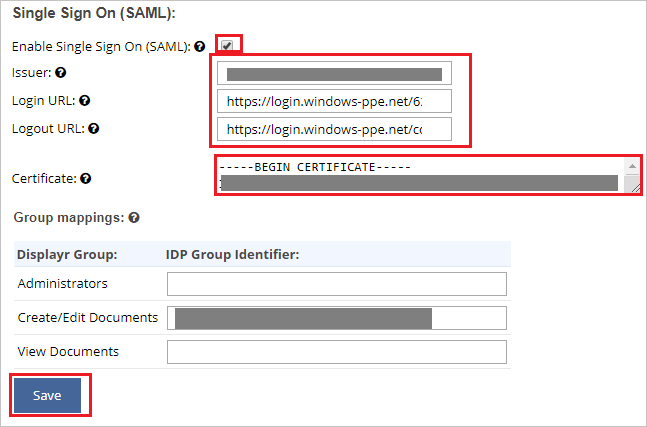
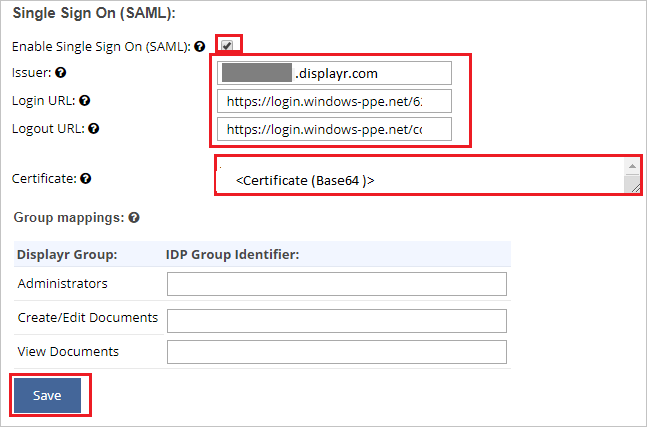
checking in inline tutorials

Changed region(s): [[0.2473, 0.7002, 0.7728, 0.7916], [0.34, 0.3653, 0.9583, 0.4567], [0.34, 0.1218, 0.6801, 0.2131]]

diff --git a/articles/en-us/displayr/sso_configure.md b/articles/en-us/displayr/sso_configure.md
@@ -15,27 +15,23 @@ To test the steps in this tutorial, you should follow these recommendations:
 
 ### Configuring Displayr for single sign-on
 
-1. On the **Displayr** page, click **Properties** in the left-side navigation pane, and copy the **Application ID** and save it on your computer for subsequent use.
+1. In a different web browser window, sign in to Displayr as an Administrator.
 
-	![image](./media/properties.png)
-
-2. In a different web browser window, sign in to Displayr as an Administrator.
-
-3. Click on **Settings** then navigate to **Account**.
+2. Click on **Settings** then navigate to **Account**.
 
 	![Configuration](./media/config01.png)
 
-4. Switch to **Settings** from the top menu and scroll down the page for clicking **Configure Single Sign On (SAML)**.
+3. Switch to **Settings** from the top menu and scroll down the page for clicking **Configure Single Sign On (SAML)**.
 
 	![Configuration](./media/config02.png)
 
-5. On the **Single Sign On (SAML)** page, perform the following steps:
+4. On the **Single Sign On (SAML)** page, perform the following steps:
 
 	![Configuration](./media/config03.png)
 
 	a. Check the **Enable Single Sign On (SAML)** box.
 
-	b. In the **Issuer** text box, paste the value of **Application ID**, which you have copied from the **Properties** tab of Azure portal.
+	b. Copy the actual **Identifier** value from the **Basic SAML Configuration** section of Azure AD and paste it into the **Issuer** text box.
 
 	c. In the **Login URL** text box, paste the value of **Azure AD Login URL** : %metadata:singleSignOnServiceUrl%, which you have copied from Azure portal.
 

diff --git a/articles/en-us/meta4globalhr/sso_configure.md b/articles/en-us/meta4globalhr/sso_configure.md
@@ -1,0 +1,30 @@
+## Prerequisites
+
+To configure Azure AD integration with Meta4 Global HR, you need the following items:
+
+- An Azure AD subscription
+- A Meta4 Global HR single sign-on enabled subscription
+
+> **Note:**
+> To test the steps in this tutorial, we do not recommend using a production environment.
+
+To test the steps in this tutorial, you should follow these recommendations:
+
+- Do not use your production environment, unless it is necessary.
+- If you don't have an Azure AD trial environment, you can [get a one-month trial](https://azure.microsoft.com/pricing/free-trial/).
+
+### Configuring Meta4 Global HR for single sign-on
+
+To configure single sign-on on **Meta4 Global HR** side, you need to send the **[Downloaded SAML Metadata file](%metadata:metadataDownloadUrl%)** and appropriate copied URLs from Azure portal to [Meta4 Global HR support team](mailto:victors@meta4.com). They set this setting to have the SAML SSO connection set properly on both sides.
+
+## Quick Reference
+
+* **Login URL** : %metadata:singleSignOnServiceUrl%
+
+* **[Download Azure AD Signing Certifcate](%metadata:CertificateDownloadRawUrl%)**
+
+* **[Download SAML Metadata file](%metadata:metadataDownloadUrl%)**
+
+## Additional Resources
+
+* [How to integrate Meta4 Global HR with Azure Active Directory](https://docs.microsoft.com/azure/active-directory/saas-apps/meta4-global-hr-tutorial)

diff --git a/articles/en-us/outsystems/sso_configure.md b/articles/en-us/outsystems/sso_configure.md
@@ -1,0 +1,32 @@
+## Prerequisites
+
+To configure Azure AD integration with OutSystems, you need the following items:
+
+- An Azure AD subscription
+- An OutSystems single sign-on enabled subscription
+
+> **Note:**
+> To test the steps in this tutorial, we do not recommend using a production environment.
+
+To test the steps in this tutorial, you should follow these recommendations:
+
+- Do not use your production environment, unless it is necessary.
+- If you don't have an Azure AD trial environment, you can get a [free account](https://azure.microsoft.com/free/).
+
+### Configuring OutSystems for single sign-on
+
+To configure single sign-on on **OutSystems** side, you need to send the **[Downloaded SAML Metadata file](%metadata:metadataDownloadUrl%)** and appropriate copied URLs from Azure portal to [OutSystems support team](mailto:support@outsystems.com). They set this setting to have the SAML SSO connection set properly on both sides.
+
+## Quick Reference
+
+* **Azure AD Login URL** : %metadata:singleSignOnServiceUrl%
+
+* **[Download Azure AD Signing Certifcate](%metadata:CertificateDownloadRawUrl%)**
+
+* **[Download SAML Metadata file](%metadata:metadataDownloadUrl%)**
+
+
+
+## Additional Resources
+
+* [How to integrate OutSystems with Azure Active Directory](https://docs.microsoft.com/azure/active-directory/saas-apps/outsystems-tutorial)

diff --git a/articles/en-us/quantumworkplace/sso_configure.md b/articles/en-us/quantumworkplace/sso_configure.md
@@ -1,0 +1,30 @@
+## Prerequisites
+
+To configure Azure AD integration with Quantum Workplace, you need the following items:
+
+- An Azure AD subscription
+- A Quantum Workplace single sign-on enabled subscription
+
+> **Note:**
+> To test the steps in this tutorial, we do not recommend using a production environment.
+
+To test the steps in this tutorial, you should follow these recommendations:
+
+- Do not use your production environment, unless it is necessary.
+- If you don't have an Azure AD trial environment, you can get a [free account](https://azure.microsoft.com/free/).
+
+### Configuring Quantum Workplace for single sign-on
+
+To configure single sign-on on **Quantum Workplace** side, you need to send the **App Federation Metadata Url** to [Quantum Workplace support team](mailto:support@quantumworkplace.com). They set this setting to have the SAML SSO connection set properly on both sides.
+
+## Quick Reference
+
+* **Azure AD Single Login URL** : %metadata:singleSignOnServiceUrl%
+
+* **[Download Azure AD Signing Certifcate](%metadata:CertificateDownloadRawUrl%)**
+
+* **[Download SAML Metadata file](%metadata:metadataDownloadUrl%)**
+
+## Additional Resources
+
+* [How to integrate Quantum Workplace with Azure Active Directory](https://docs.microsoft.com/azure/active-directory/saas-apps/quantum-workplace-tutorial)

diff --git a/articles/en-us/cobalt/sso_configure.md b/articles/en-us/cobalt/sso_configure.md
@@ -1,0 +1,28 @@
+## Prerequisites
+
+To configure Azure AD integration with Cobalt, you need the following items:
+
+- An Azure AD subscription
+- A Cobalt single sign-on enabled subscription
+
+> **Note:**
+> To test the steps in this tutorial, we do not recommend using a production environment.
+
+To test the steps in this tutorial, you should follow these recommendations:
+
+- Do not use your production environment, unless it is necessary.
+- If you don't have an Azure AD trial environment, you can get a [free account](https://azure.microsoft.com/free/).
+
+### Configuring Cobalt for single sign-on
+
+To configure single sign-on on **Cobalt** side, you need to send the **[Downloaded Azure AD Signing Certifcate (Base64 encoded)](%metadata:certificateDownloadBase64Url%)** and appropriate copied URLs from Azure portal to [Cobalt support team](https://www.cobalt.net/support/). They set this setting to have the SAML SSO connection set properly on both sides.
+
+## Quick Reference
+
+* **Azure AD Login URL** : %metadata:singleSignOnServiceUrl%
+
+* **[Download Azure AD Signing Certifcate (Base64 encoded)](%metadata:certificateDownloadBase64Url%)**
+
+## Additional Resources
+
+* [How to integrate Cobalt with Azure Active Directory](https://docs.microsoft.com/azure/active-directory/saas-apps/cobalt-tutorial)

diff --git a/articles/en-us/aclp/sso_configure.md b/articles/en-us/aclp/sso_configure.md
@@ -1,0 +1,30 @@
+## Prerequisites
+
+To configure Azure AD integration with ACLP, you need the following items:
+
+- An Azure AD subscription
+- A ACLP single sign-on enabled subscription
+
+> **Note:**
+> To test the steps in this tutorial, we do not recommend using a production environment.
+
+To test the steps in this tutorial, you should follow these recommendations:
+
+- Do not use your production environment, unless it is necessary.
+- If you don't have an Azure AD trial environment, you can [get a one-month trial](https://azure.microsoft.com/pricing/free-trial/).
+
+### Configuring ACLP for single sign-on
+
+To configure single sign-on on **ACLP** side, you need to send the **App Federation Metadata Url** to [ACLP support team](mailto:mrichards@sans.org). They set this setting to have the SAML SSO connection set properly on both sides.
+
+## Quick Reference
+
+* **Login URL** : %metadata:singleSignOnServiceUrl%
+
+* **[Download Azure AD Signing Certifcate](%metadata:CertificateDownloadRawUrl%)**
+
+* **[Download SAML Metadata file](%metadata:metadataDownloadUrl%)**
+
+## Additional Resources
+
+* [How to integrate ACLP with Azure Active Directory](https://docs.microsoft.com/azure/active-directory/saas-apps/aclp-tutorial)

diff --git a/articles/en-us/webmethodsintegrationcloud/sso_configure.md b/articles/en-us/webmethodsintegrationcloud/sso_configure.md
@@ -15,11 +15,11 @@ To test the steps in this tutorial, you should follow these recommendations:
 
 ### Configuring webMethods Integration Cloud for single sign-on
 
-To configure single sign-on on **webMethods Integration Cloud** side, you need to send the **[Downloaded SAML Metadata file](%metadata:metadataDownloadUrl%)** and appropriate copied URLs from Azure portal to [webMethods Integration Cloud support team](https://empower.softwareag.com/). They set this setting to have the SAML SSO connection set properly on both sides.
+To configure single sign-on on **webMethods Integration Suite** side, you need to send the **[Downloaded SAML Metadata file](%metadata:metadataDownloadUrl%)** and appropriate copied URLs from Azure portal to [webMethods Integration Suite support team](https://empower.softwareag.com/). They set this setting to have the SAML SSO connection set properly on both sides.
 
 ## Quick Reference
 
-* **Azure AD Login URL** : %metadata:singleSignOnServiceUrl%
+* **Login URL** : %metadata:singleSignOnServiceUrl%
 
 * **[Download Azure AD Signing Certifcate](%metadata:CertificateDownloadRawUrl%)**
 
